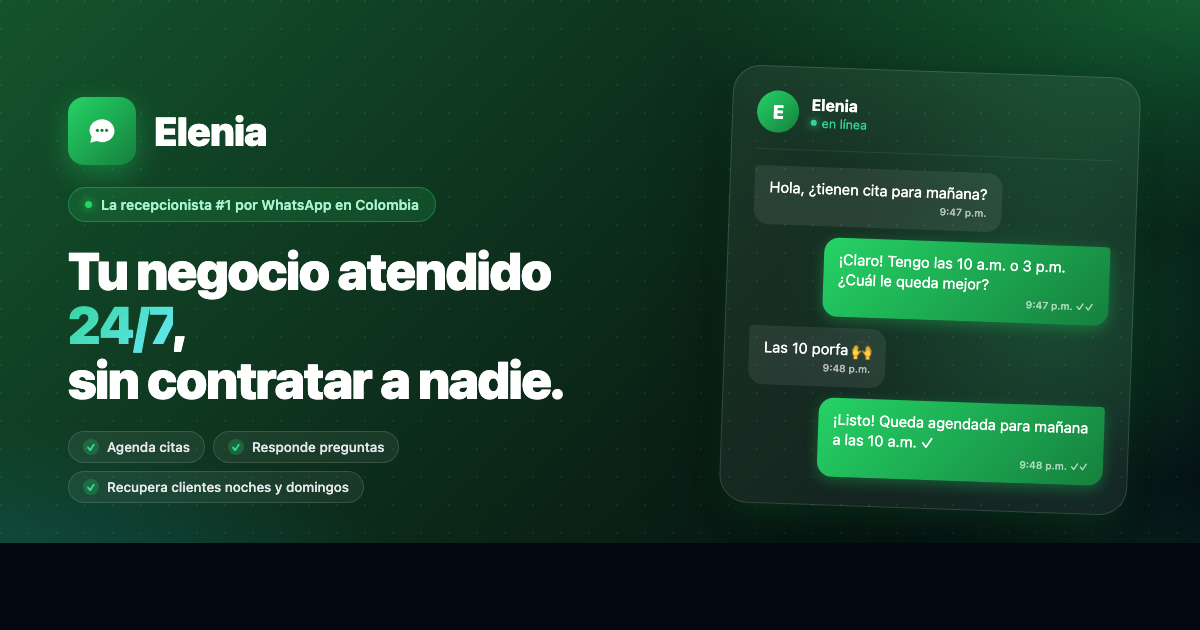
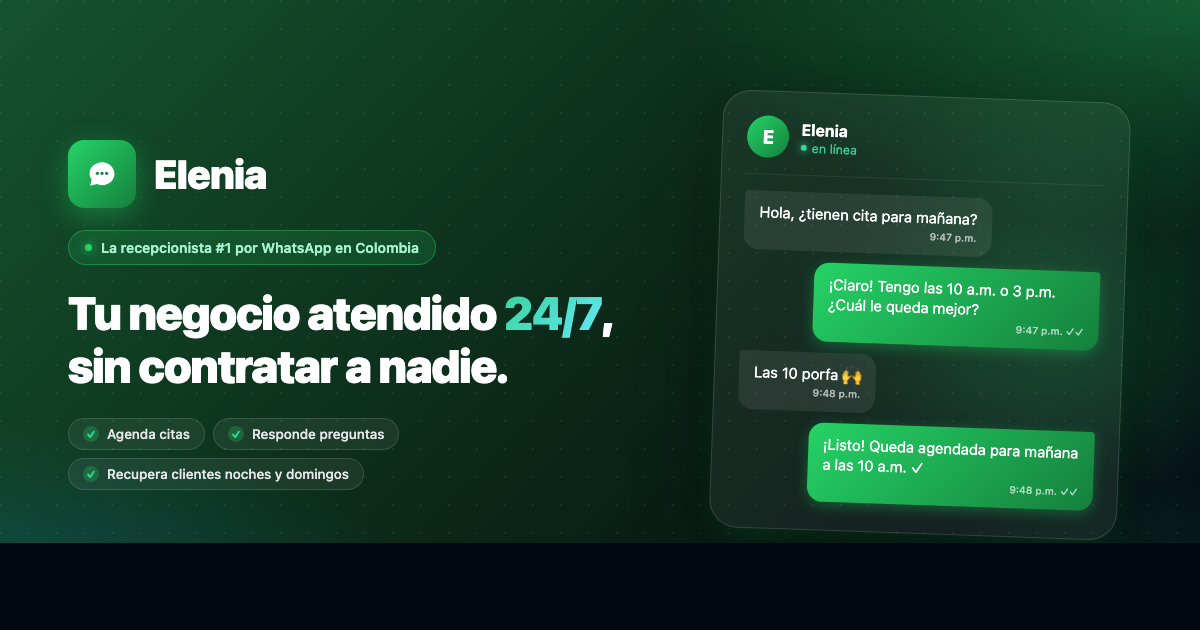
Fix OG image dark bar and hero mobile spacing
- Remove bottom strip from OG image so green gradient fills the full canvas
- Remove <br> in h1 so '24/7, sin contratar a nadie' flows naturally
- Loosen h1 line-height and add inline-block to accent so the '7' isn't clipped
- Add breathing room on mobile hero: larger margins between subtitle,
  CTAs and trust strip; bigger h1 and CTA gap; center the trust strip

diff --git a/.og-template.html b/.og-template.html
@@ -44,8 +44,8 @@
 
   /* Left column: content */
   .left {
-    flex: 0 0 700px;
-    padding: 58px 24px 88px 68px;
+    flex: 0 0 680px;
+    padding: 58px 24px 58px 68px;
     display: flex;
     flex-direction: column;
     justify-content: center;
@@ -74,14 +74,17 @@
   .badge .dot { width: 7px; height: 7px; border-radius: 50%; background: #25D366; box-shadow: 0 0 10px #25D366; }
 
   h1 {
-    font-size: 52px; font-weight: 900; line-height: 1.05;
+    font-size: 46px; font-weight: 900; line-height: 1.15;
     letter-spacing: -0.028em;
+    padding-bottom: 2px;
   }
   h1 .accent {
     background: linear-gradient(135deg, #34D399, #67E8F9);
     -webkit-background-clip: text;
     -webkit-text-fill-color: transparent;
     background-clip: text;
+    display: inline-block;
+    line-height: 1.15;
   }
 
   .features {
@@ -112,7 +115,7 @@
     display: flex;
     align-items: center;
     justify-content: center;
-    padding: 40px 48px 90px 8px;
+    padding: 40px 48px 40px 8px;
   }
   .chat {
     width: 408px;
@@ -167,37 +170,6 @@
     font-weight: 500;
   }
 
-  /* Full-width bottom strip — no dead zone */
-  .bottom-strip {
-    position: absolute;
-    left: 0; right: 0; bottom: 0;
-    height: 72px;
-    padding: 0 68px;
-    display: flex;
-    align-items: center;
-    justify-content: space-between;
-    background: linear-gradient(180deg, transparent 0%, rgba(3,7,18,0.55) 60%, rgba(3,7,18,0.88) 100%);
-    border-top: 1px solid rgba(255,255,255,0.06);
-    z-index: 3;
-  }
-  .bottom-strip .url {
-    font-size: 18px; font-weight: 800;
-    color: #fff;
-    letter-spacing: 0.01em;
-  }
-  .bottom-strip .url span { color: #34D399; }
-  .bottom-strip .cta {
-    display: inline-flex; align-items: center; gap: 10px;
-    font-size: 15px; font-weight: 700;
-    color: #A7F3D0;
-  }
-  .bottom-strip .cta .arrow {
-    width: 22px; height: 22px; border-radius: 50%;
-    background: rgba(37,211,102,0.28);
-    display: inline-flex; align-items: center; justify-content: center;
-    color: #34D399; font-size: 12px; font-weight: 900;
-    line-height: 1;
-  }
 </style>
 </head>
 <body>
@@ -219,7 +191,7 @@
       </div>
 
       <div class="badge"><span class="dot"></span> La recepcionista #1 por WhatsApp en Colombia</div>
-      <h1>Tu negocio atendido <span class="accent">24/7</span>,<br>sin contratar a nadie.</h1>
+      <h1>Tu negocio atendido <span class="accent">24/7</span>, sin contratar a nadie.</h1>
 
       <div class="features">
         <span class="feature"><span class="feature-icon">✓</span> Agenda citas</span>
@@ -247,9 +219,5 @@
     </div>
   </div>
 
-  <div class="bottom-strip">
-    <div class="url">elenia<span>.app</span></div>
-    <div class="cta">Prueba 7 días gratis <span class="arrow">→</span></div>
-  </div>
 </body>
 </html>

diff --git a/index.html b/index.html
@@ -303,7 +303,7 @@ button { border: none; cursor: pointer; font-family: inherit; }
   flex-wrap: wrap;
   gap: 8px;
   list-style: none;
-  margin: 24px 0 28px;
+  margin: 24px 0 0;
   padding: 0;
   animation: fadeInUp 0.6s ease 0.25s both;
 }
@@ -342,6 +342,7 @@ button { border: none; cursor: pointer; font-family: inherit; }
   justify-content: flex-start;
   gap: 14px;
   flex-wrap: wrap;
+  margin-top: 28px;
   animation: fadeInUp 0.6s ease 0.3s both;
 }
 
@@ -1760,14 +1761,16 @@ button { border: none; cursor: pointer; font-family: inherit; }
   .mobile-menu-btn { display: block; }
   .navbar-inner { height: 64px; }
 
-  .hero { padding: 112px 20px 64px; }
-  .hero h1 { font-size: 32px; line-height: 1.15; }
-  .hero-subtitle { font-size: 15px; }
+  .hero { padding: 120px 20px 80px; }
+  .hero h1 { font-size: 34px; line-height: 1.15; margin-bottom: 18px; }
+  .hero-subtitle { font-size: 15.5px; line-height: 1.7; margin-bottom: 8px; }
   .hero-inner { gap: 0; }
   .hero-features { display: none; }
   .hero-visual { display: none; }
   .hero-content { padding: 0 4px; }
-  .hero-trust { font-size: 12.5px; gap: 8px; flex-wrap: wrap; }
+  .hero-badge { margin-bottom: 22px; font-size: 13px; padding: 7px 16px; }
+  .hero-actions { margin-top: 36px; gap: 12px; }
+  .hero-trust { margin-top: 32px; font-size: 13px; gap: 10px; flex-wrap: wrap; justify-content: center; }
   .hero-trust-avatars span { width: 28px; height: 28px; font-size: 12px; }
 
   .stats-grid { grid-template-columns: repeat(2, 1fr); gap: 24px; }
